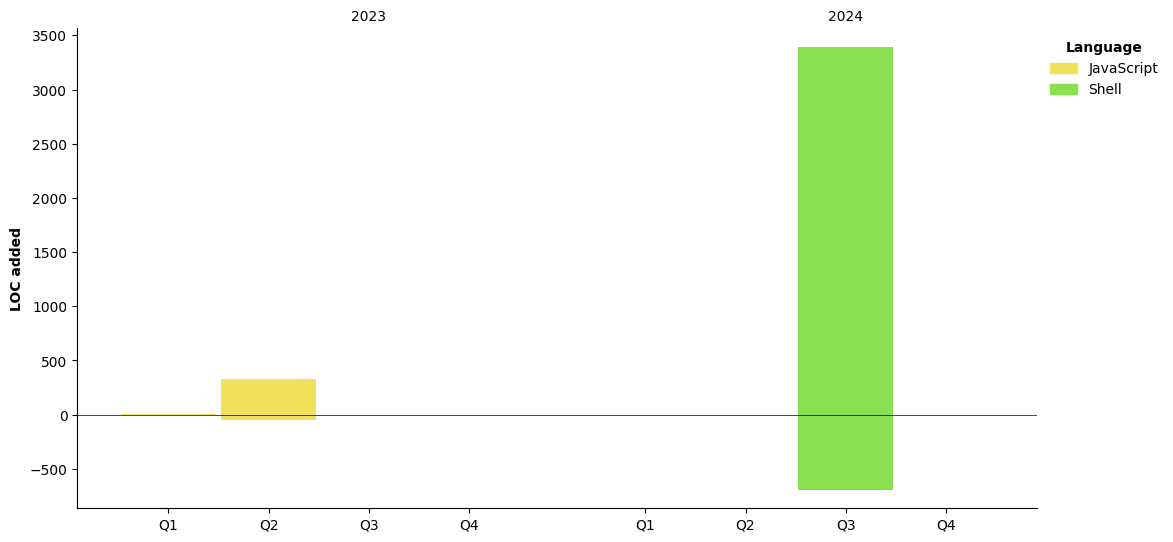
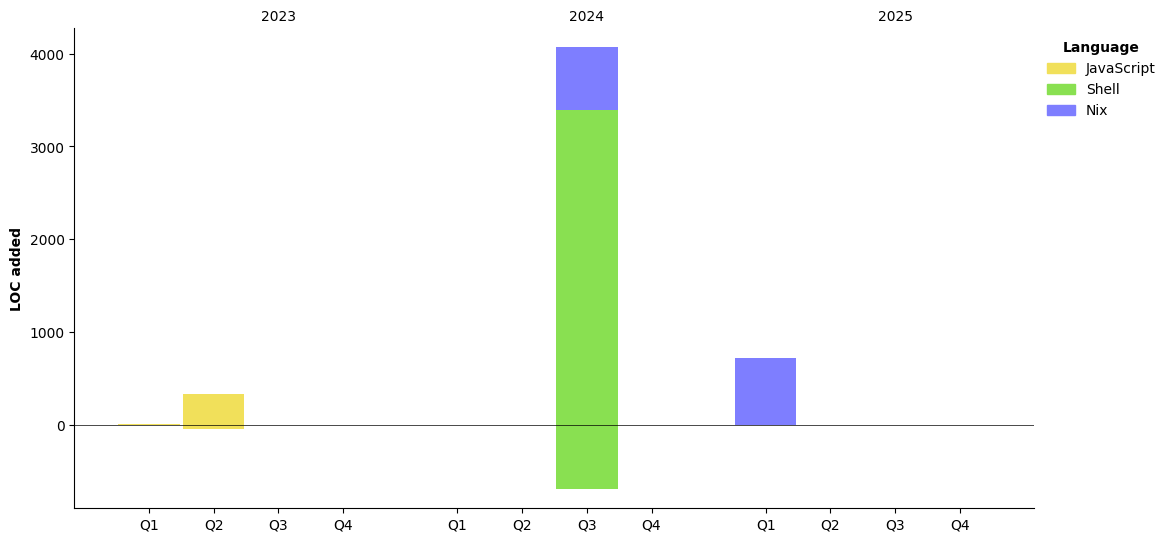
Updated with Dev Metrics

diff --git a/README.md b/README.md
@@ -4,21 +4,21 @@
 **I'm a Night 🦉** 
 
 ```text
-🌞 Morning                8 commits           ██░░░░░░░░░░░░░░░░░░░░░░░   06.40 % 
-🌆 Daytime                49 commits          ██████████░░░░░░░░░░░░░░░   39.20 % 
-🌃 Evening                48 commits          ██████████░░░░░░░░░░░░░░░   38.40 % 
-🌙 Night                  20 commits          ████░░░░░░░░░░░░░░░░░░░░░   16.00 % 
+🌞 Morning                8 commits           ██░░░░░░░░░░░░░░░░░░░░░░░   06.35 % 
+🌆 Daytime                50 commits          ██████████░░░░░░░░░░░░░░░   39.68 % 
+🌃 Evening                48 commits          ██████████░░░░░░░░░░░░░░░   38.10 % 
+🌙 Night                  20 commits          ████░░░░░░░░░░░░░░░░░░░░░   15.87 % 
 ```
 📅 **I'm Most Productive on Sunday** 
 
 ```text
-Monday                   22 commits          ████░░░░░░░░░░░░░░░░░░░░░   17.60 % 
-Tuesday                  2 commits           ░░░░░░░░░░░░░░░░░░░░░░░░░   01.60 % 
-Wednesday                4 commits           █░░░░░░░░░░░░░░░░░░░░░░░░   03.20 % 
-Thursday                 27 commits          █████░░░░░░░░░░░░░░░░░░░░   21.60 % 
-Friday                   7 commits           █░░░░░░░░░░░░░░░░░░░░░░░░   05.60 % 
-Saturday                 9 commits           ██░░░░░░░░░░░░░░░░░░░░░░░   07.20 % 
-Sunday                   54 commits          ███████████░░░░░░░░░░░░░░   43.20 % 
+Monday                   22 commits          ████░░░░░░░░░░░░░░░░░░░░░   17.46 % 
+Tuesday                  2 commits           ░░░░░░░░░░░░░░░░░░░░░░░░░   01.59 % 
+Wednesday                4 commits           █░░░░░░░░░░░░░░░░░░░░░░░░   03.17 % 
+Thursday                 27 commits          █████░░░░░░░░░░░░░░░░░░░░   21.43 % 
+Friday                   7 commits           █░░░░░░░░░░░░░░░░░░░░░░░░   05.56 % 
+Saturday                 10 commits          ██░░░░░░░░░░░░░░░░░░░░░░░   07.94 % 
+Sunday                   54 commits          ███████████░░░░░░░░░░░░░░   42.86 % 
 ```
 
 
@@ -43,10 +43,11 @@ No Activity Tracked This Week
 **I Mostly Code in TypeScript** 
 
 ```text
-TypeScript               3 repos             ████████████░░░░░░░░░░░░░   50.00 % 
-JavaScript               1 repo              ████░░░░░░░░░░░░░░░░░░░░░   16.67 % 
-Shell                    1 repo              ████░░░░░░░░░░░░░░░░░░░░░   16.67 % 
-Lua                      1 repo              ████░░░░░░░░░░░░░░░░░░░░░   16.67 % 
+TypeScript               3 repos             ███████████░░░░░░░░░░░░░░   42.86 % 
+Nix                      1 repo              ████░░░░░░░░░░░░░░░░░░░░░   14.29 % 
+JavaScript               1 repo              ████░░░░░░░░░░░░░░░░░░░░░   14.29 % 
+Shell                    1 repo              ████░░░░░░░░░░░░░░░░░░░░░   14.29 % 
+Lua                      1 repo              ████░░░░░░░░░░░░░░░░░░░░░   14.29 % 
 ```
 
 
